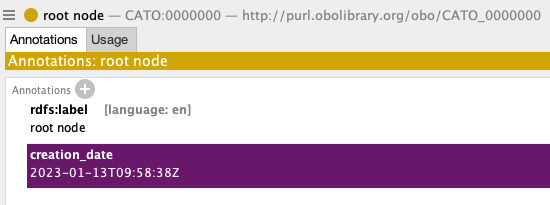
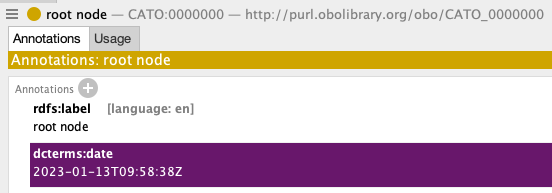
update date annotation (#476)

Changed region(s): [[0.0, 0.0, 1.0, 0.9948]]

diff --git a/docs/tutorial/custom-qc.md b/docs/tutorial/custom-qc.md
@@ -12,19 +12,19 @@ You have completed the tutorials:
 
 ## Custom Quality Checks
 
-1. Identify a quality issue in your ontology. For the sake of this tutorial, we've added the annotation `oboInOwl:creation_date` to the `root_node` in the CAT Ontology.
+1. Identify a quality issue in your ontology. For the sake of this tutorial, we've added the annotation `dcterms:date` to the `root_node` in the CAT Ontology.
 
 ![root node with oboInOwl:creation_date annotation string](../images/custom_qc_example.png)
 
-2. Write the SPARQL query to detect the error you want to check. For example, check the value type for the annotation `oboInOwl:creation_date`. It will return the class with the annotation if it's not of type `xsd:dateTime`.
+2. Write the SPARQL query to detect the error you want to check. For example, check the value type for the annotation `dcterms:date`. It will return the class with the annotation if it's not of type `xsd:dateTime`.
 
 ```sparql
-PREFIX oboInOwl: <http://www.geneontology.org/formats/oboInOwl#>
+PREFIX dcterms: <http://purl.org/dc/terms/>
 PREFIX xsd: <http://www.w3.org/2001/XMLSchema#>
 
 SELECT ?cls WHERE
 {
-	?cls oboInOwl:creation_date ?date .
+	?cls dcterms:date ?date .
   FILTER(DATATYPE(?date) != xsd:dateTime)
 }
 ```
